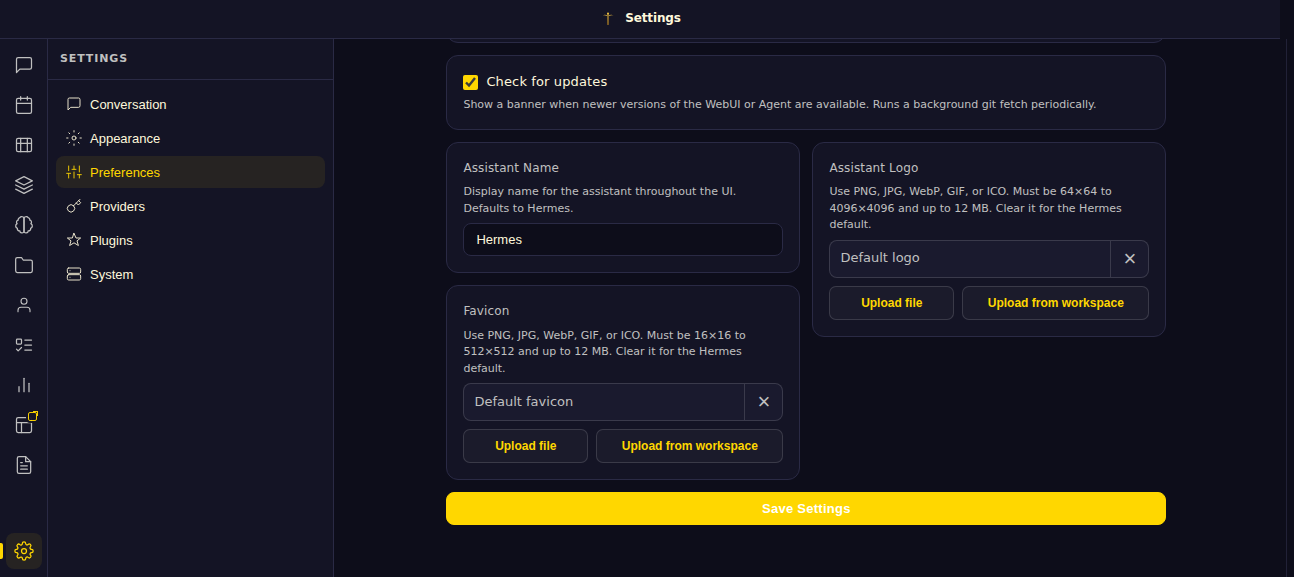
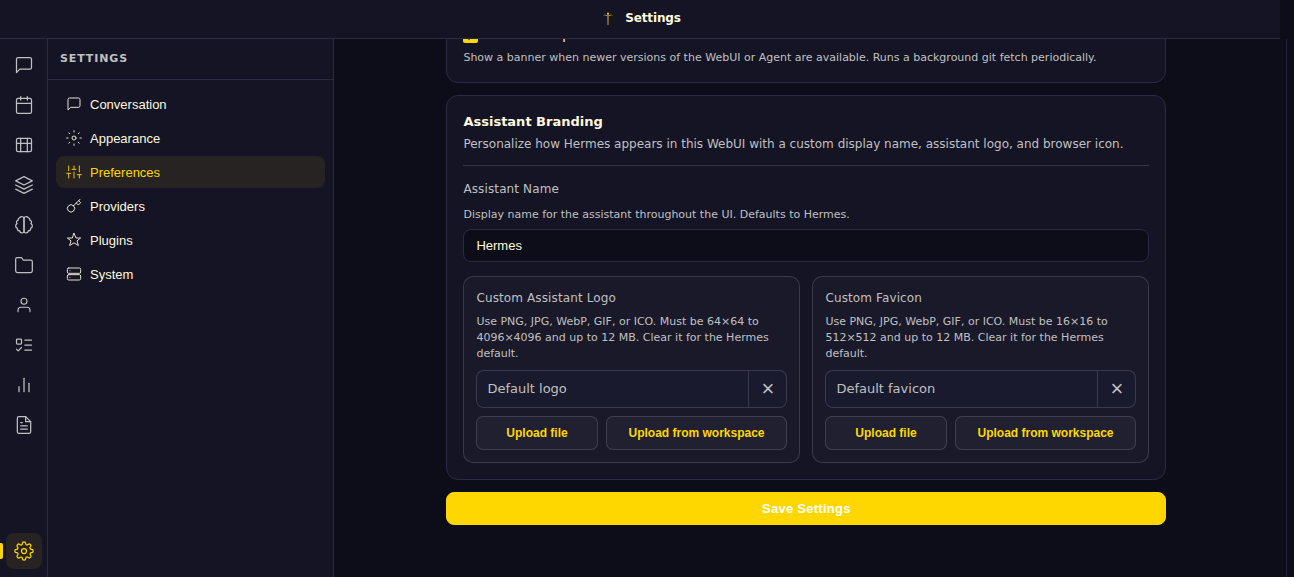
fix: polish branding controls card

diff --git a/static/index.html b/static/index.html
@@ -1053,37 +1053,47 @@
               <div style="font-size:11px;color:var(--muted);margin-top:4px" data-i18n="settings_desc_check_updates">Show a banner when newer versions of the WebUI or Agent are available. Runs a background git fetch periodically.</div>
             </div>
             <div class="settings-branding-grid">
-              <div class="settings-field">
-                <label for="settingsBotName" data-i18n="settings_label_bot_name">Assistant Name</label>
-                <div style="font-size:11px;color:var(--muted);margin-bottom:6px" data-i18n="settings_desc_bot_name">Display name for the assistant throughout the UI. Defaults to Hermes.</div>
-                <input type="text" id="settingsBotName" placeholder="Hermes" maxlength="64" style="width:100%;padding:8px;background:var(--code-bg);color:var(--text);border:1px solid var(--border2);border-radius:6px;font-size:13px">
-              </div>
-              <div class="settings-field">
-                <label for="settingsBotLogoUpload" data-i18n="settings_label_bot_logo">Assistant Logo</label>
-                <div style="font-size:11px;color:var(--muted);margin-bottom:6px" data-i18n="settings_desc_bot_logo">Use PNG, JPG, WebP, GIF, or ICO. Must be 64×64 to 4096×4096 and up to 12 MB. Clear it for the Hermes default.</div>
-                <input type="hidden" id="settingsBotLogo">
-                <input type="file" id="settingsBotLogoFile" accept="image/png,image/jpeg,image/webp,image/gif,image/x-icon,image/vnd.microsoft.icon,.ico" hidden>
-                <div class="brand-file-control" data-branding-kind="logo">
-                  <span class="brand-file-name" id="settingsBotLogoFileName" data-i18n="settings_branding_no_file">No file selected</span>
-                  <button type="button" class="brand-file-clear" id="settingsBotLogoClear" aria-label="Clear assistant logo" title="Clear assistant logo">×</button>
+              <div class="settings-field settings-branding-card">
+                <div class="settings-branding-card-head">
+                  <div>
+                    <label>Assistant Branding</label>
+                    <div>Personalize how Hermes appears in this WebUI with a custom display name, assistant logo, and browser icon.</div>
+                  </div>
                 </div>
-                <div class="brand-file-actions">
-                  <button type="button" class="brand-file-action" id="settingsBotLogoUpload" data-i18n="settings_branding_upload">Upload file</button>
-                  <button type="button" class="brand-file-action" id="settingsBotLogoWorkspace" data-i18n="settings_branding_workspace">Upload from workspace</button>
-                </div>
-              </div>
-              <div class="settings-field">
-                <label for="settingsBotFaviconUpload" data-i18n="settings_label_bot_favicon">Favicon</label>
-                <div style="font-size:11px;color:var(--muted);margin-bottom:6px" data-i18n="settings_desc_bot_favicon">Use PNG, JPG, WebP, GIF, or ICO. Must be 16×16 to 512×512 and up to 12 MB. Clear it for the Hermes default.</div>
-                <input type="hidden" id="settingsBotFavicon">
-                <input type="file" id="settingsBotFaviconFile" accept="image/png,image/jpeg,image/webp,image/gif,image/x-icon,image/vnd.microsoft.icon,.ico" hidden>
-                <div class="brand-file-control" data-branding-kind="favicon">
-                  <span class="brand-file-name" id="settingsBotFaviconFileName" data-i18n="settings_branding_no_file">No file selected</span>
-                  <button type="button" class="brand-file-clear" id="settingsBotFaviconClear" aria-label="Clear favicon" title="Clear favicon">×</button>
-                </div>
-                <div class="brand-file-actions">
-                  <button type="button" class="brand-file-action" id="settingsBotFaviconUpload" data-i18n="settings_branding_upload">Upload file</button>
-                  <button type="button" class="brand-file-action" id="settingsBotFaviconWorkspace" data-i18n="settings_branding_workspace">Upload from workspace</button>
+                <div class="settings-branding-card-grid">
+                  <div class="settings-branding-name-slot">
+                    <label for="settingsBotName" data-i18n="settings_label_bot_name">Assistant Name</label>
+                    <div style="font-size:11px;color:var(--muted);margin-bottom:6px" data-i18n="settings_desc_bot_name">Display name for the assistant throughout the UI. Defaults to Hermes.</div>
+                    <input type="text" id="settingsBotName" placeholder="Hermes" maxlength="64" style="width:100%;padding:8px;background:var(--code-bg);color:var(--text);border:1px solid var(--border2);border-radius:6px;font-size:13px">
+                  </div>
+                  <div class="settings-branding-asset-slot settings-branding-logo-slot">
+                    <label for="settingsBotLogoUpload" data-i18n="settings_label_bot_logo">Custom Assistant Logo</label>
+                    <div class="settings-branding-asset-desc" data-i18n="settings_desc_bot_logo">Use PNG, JPG, WebP, GIF, or ICO. Must be 64×64 to 4096×4096 and up to 12 MB. Clear it for the Hermes default.</div>
+                    <input type="hidden" id="settingsBotLogo">
+                    <input type="file" id="settingsBotLogoFile" accept="image/png,image/jpeg,image/webp,image/gif,image/x-icon,image/vnd.microsoft.icon,.ico" hidden>
+                    <div class="brand-file-control" data-branding-kind="logo">
+                      <span class="brand-file-name" id="settingsBotLogoFileName" data-i18n="settings_branding_no_file">No file selected</span>
+                      <button type="button" class="brand-file-clear" id="settingsBotLogoClear" aria-label="Clear assistant logo" title="Clear assistant logo">×</button>
+                    </div>
+                    <div class="brand-file-actions">
+                      <button type="button" class="brand-file-action" id="settingsBotLogoUpload" data-i18n="settings_branding_upload">Upload file</button>
+                      <button type="button" class="brand-file-action" id="settingsBotLogoWorkspace" data-i18n="settings_branding_workspace">Upload from workspace</button>
+                    </div>
+                  </div>
+                  <div class="settings-branding-asset-slot settings-branding-favicon-slot">
+                    <label for="settingsBotFaviconUpload" data-i18n="settings_label_bot_favicon">Custom Favicon</label>
+                    <div class="settings-branding-asset-desc" data-i18n="settings_desc_bot_favicon">Use PNG, JPG, WebP, GIF, or ICO. Must be 16×16 to 512×512 and up to 12 MB. Clear it for the Hermes default.</div>
+                    <input type="hidden" id="settingsBotFavicon">
+                    <input type="file" id="settingsBotFaviconFile" accept="image/png,image/jpeg,image/webp,image/gif,image/x-icon,image/vnd.microsoft.icon,.ico" hidden>
+                    <div class="brand-file-control" data-branding-kind="favicon">
+                      <span class="brand-file-name" id="settingsBotFaviconFileName" data-i18n="settings_branding_no_file">No file selected</span>
+                      <button type="button" class="brand-file-clear" id="settingsBotFaviconClear" aria-label="Clear favicon" title="Clear favicon">×</button>
+                    </div>
+                    <div class="brand-file-actions">
+                      <button type="button" class="brand-file-action" id="settingsBotFaviconUpload" data-i18n="settings_branding_upload">Upload file</button>
+                      <button type="button" class="brand-file-action" id="settingsBotFaviconWorkspace" data-i18n="settings_branding_workspace">Upload from workspace</button>
+                    </div>
+                  </div>
                 </div>
               </div>
             </div>

diff --git a/static/i18n.js b/static/i18n.js
@@ -514,8 +514,8 @@ const LOCALES = {
     settings_label_sync_insights: 'Sync to insights',
     settings_label_check_updates: 'Check for updates',
     settings_label_bot_name: 'Assistant Name',
-    settings_label_bot_logo: 'Assistant Logo',
-    settings_label_bot_favicon: 'Favicon',
+    settings_label_bot_logo: 'Custom Assistant Logo',
+    settings_label_bot_favicon: 'Custom Favicon',
     settings_bot_logo_clear: 'Clear logo',
     settings_branding_upload: 'Upload file',
     settings_branding_workspace: 'Upload from workspace',
@@ -1648,8 +1648,8 @@ const LOCALES = {
     settings_label_sync_insights: 'Sincronizza con insights',
     settings_label_check_updates: 'Verifica aggiornamenti',
     settings_label_bot_name: 'Nome Assistente',
-    settings_label_bot_logo: 'Assistant Logo',
-    settings_label_bot_favicon: 'Favicon',
+    settings_label_bot_logo: 'Custom Assistant Logo',
+    settings_label_bot_favicon: 'Custom Favicon',
     settings_bot_logo_clear: 'Clear logo',
     settings_branding_upload: 'Upload file',
     settings_branding_workspace: 'Upload from workspace',
@@ -2774,8 +2774,8 @@ const LOCALES = {
     settings_label_sync_insights: 'インサイトに同期',
     settings_label_check_updates: 'アップデートを確認',
     settings_label_bot_name: 'アシスタント名',
-    settings_label_bot_logo: 'Assistant Logo',
-    settings_label_bot_favicon: 'Favicon',
+    settings_label_bot_logo: 'Custom Assistant Logo',
+    settings_label_bot_favicon: 'Custom Favicon',
     settings_bot_logo_clear: 'Clear logo',
     settings_branding_upload: 'Upload file',
     settings_branding_workspace: 'Upload from workspace',
@@ -3725,8 +3725,8 @@ const LOCALES = {
     settings_label_sync_insights: 'Синхронизировать с Insights',
     settings_label_check_updates: 'Проверять обновления',
     settings_label_bot_name: 'Имя помощника',
-    settings_label_bot_logo: 'Assistant Logo',
-    settings_label_bot_favicon: 'Favicon',
+    settings_label_bot_logo: 'Custom Assistant Logo',
+    settings_label_bot_favicon: 'Custom Favicon',
     settings_bot_logo_clear: 'Clear logo',
     settings_branding_upload: 'Upload file',
     settings_branding_workspace: 'Upload from workspace',
@@ -4780,8 +4780,8 @@ const LOCALES = {
     settings_label_sync_insights: 'Sincronizar con insights',
     settings_label_check_updates: 'Buscar actualizaciones',
     settings_label_bot_name: 'Nombre del asistente',
-    settings_label_bot_logo: 'Assistant Logo',
-    settings_label_bot_favicon: 'Favicon',
+    settings_label_bot_logo: 'Custom Assistant Logo',
+    settings_label_bot_favicon: 'Custom Favicon',
     settings_bot_logo_clear: 'Clear logo',
     settings_branding_upload: 'Upload file',
     settings_branding_workspace: 'Upload from workspace',
@@ -5828,8 +5828,8 @@ const LOCALES = {
     settings_label_sync_insights: 'Mit Insights synchronisieren',
     settings_label_check_updates: 'Nach Updates suchen',
     settings_label_bot_name: 'Assistenten-Name',
-    settings_label_bot_logo: 'Assistant Logo',
-    settings_label_bot_favicon: 'Favicon',
+    settings_label_bot_logo: 'Custom Assistant Logo',
+    settings_label_bot_favicon: 'Custom Favicon',
     settings_bot_logo_clear: 'Clear logo',
     settings_branding_upload: 'Upload file',
     settings_branding_workspace: 'Upload from workspace',
@@ -6917,8 +6917,8 @@ const LOCALES = {
     settings_label_sync_insights: '同步到 insights',
     settings_label_check_updates: '检查更新',
     settings_label_bot_name: '助手名称',
-    settings_label_bot_logo: 'Assistant Logo',
-    settings_label_bot_favicon: 'Favicon',
+    settings_label_bot_logo: 'Custom Assistant Logo',
+    settings_label_bot_favicon: 'Custom Favicon',
     settings_bot_logo_clear: 'Clear logo',
     settings_branding_upload: 'Upload file',
     settings_branding_workspace: 'Upload from workspace',
@@ -7991,8 +7991,8 @@ const LOCALES = {
     settings_label_sync_insights: '\u540c\u6b65\u5230 insights',
     settings_label_check_updates: '\u6aa2\u67e5\u66f4\u65b0',
     settings_label_bot_name: '\u52a9\u624b\u540d\u7a31',
-    settings_label_bot_logo: 'Assistant Logo',
-    settings_label_bot_favicon: 'Favicon',
+    settings_label_bot_logo: 'Custom Assistant Logo',
+    settings_label_bot_favicon: 'Custom Favicon',
     settings_bot_logo_clear: 'Clear logo',
     settings_branding_upload: 'Upload file',
     settings_branding_workspace: 'Upload from workspace',
@@ -9216,8 +9216,8 @@ const LOCALES = {
     settings_label_sync_insights: 'Sincronizar para insights',
     settings_label_check_updates: 'Verificar atualizações',
     settings_label_bot_name: 'Nome do Assistente',
-    settings_label_bot_logo: 'Assistant Logo',
-    settings_label_bot_favicon: 'Favicon',
+    settings_label_bot_logo: 'Custom Assistant Logo',
+    settings_label_bot_favicon: 'Custom Favicon',
     settings_bot_logo_clear: 'Clear logo',
     settings_branding_upload: 'Upload file',
     settings_branding_workspace: 'Upload from workspace',
@@ -10246,8 +10246,8 @@ const LOCALES = {
     settings_label_sync_insights: 'Insights에 동기화',
     settings_label_check_updates: '업데이트 확인',
     settings_label_bot_name: 'Assistant 이름',
-    settings_label_bot_logo: 'Assistant Logo',
-    settings_label_bot_favicon: 'Favicon',
+    settings_label_bot_logo: 'Custom Assistant Logo',
+    settings_label_bot_favicon: 'Custom Favicon',
     settings_bot_logo_clear: 'Clear logo',
     settings_branding_upload: 'Upload file',
     settings_branding_workspace: 'Upload from workspace',
@@ -11292,8 +11292,8 @@ const LOCALES = {
     settings_label_sync_insights: 'Synchroniser avec les insights',
     settings_label_check_updates: 'Vérifier les mises à jour',
     settings_label_bot_name: 'Nom de l\'assistant',
-    settings_label_bot_logo: 'Assistant Logo',
-    settings_label_bot_favicon: 'Favicon',
+    settings_label_bot_logo: 'Custom Assistant Logo',
+    settings_label_bot_favicon: 'Custom Favicon',
     settings_bot_logo_clear: 'Clear logo',
     settings_branding_upload: 'Upload file',
     settings_branding_workspace: 'Upload from workspace',

diff --git a/static/style.css b/static/style.css
@@ -3775,12 +3775,20 @@ main.main.showing-logs > #mainLogs{display:flex;}
 .logs-empty,.logs-hint{margin:8px 14px;padding:12px;border:1px solid var(--border);border-radius:8px;color:var(--muted);background:var(--surface);white-space:normal;font-family:var(--font-ui,system-ui,sans-serif);font-size:12px;}
 .logs-hint.warn{color:#f59e0b;border-color:rgba(245,158,11,.35);background:rgba(245,158,11,.08);}
 
-  .settings-branding-grid{display:grid;grid-template-columns:repeat(2,minmax(0,1fr));grid-template-areas:"name logo" "favicon logo";gap:12px;align-items:start;}
+  .settings-branding-grid{display:block;}
   #mainSettings .settings-branding-grid > .settings-field{margin-bottom:0;}
-  .settings-branding-grid > .settings-field:nth-child(1){grid-area:name;}
-  .settings-branding-grid > .settings-field:nth-child(2){grid-area:logo;}
-  .settings-branding-grid > .settings-field:nth-child(3){grid-area:favicon;}
-  @media (max-width:680px){.settings-branding-grid{grid-template-columns:1fr;grid-template-areas:"name" "logo" "favicon";}}
+  .settings-branding-card-head{display:flex;align-items:flex-start;justify-content:space-between;gap:12px;margin-bottom:14px;padding-bottom:12px;border-bottom:1px solid var(--border2);}
+  .settings-branding-card-head label{display:block;font-size:13px;font-weight:650;color:var(--text);margin:0 0 3px;}
+  .settings-branding-card-head div div{font-size:12px;color:var(--muted);line-height:1.45;}
+  .settings-branding-card-grid{display:grid;grid-template-columns:repeat(2,minmax(0,1fr));grid-template-areas:"name name" "logo favicon";gap:14px 12px;align-items:stretch;}
+  .settings-branding-name-slot{grid-area:name;}
+  .settings-branding-logo-slot{grid-area:logo;}
+  .settings-branding-favicon-slot{grid-area:favicon;}
+  .settings-branding-name-slot label,.settings-branding-asset-slot label{display:block;font-size:12px;font-weight:500;letter-spacing:.01em;color:var(--muted);margin-bottom:6px;}
+  .settings-branding-asset-slot{min-width:0;display:flex;flex-direction:column;padding:12px;border:1px solid var(--border2);border-radius:10px;background:rgba(255,255,255,.025);}
+  .settings-branding-asset-desc{font-size:11px;color:var(--muted);line-height:1.45;margin-bottom:8px;min-height:48px;}
+  .settings-branding-asset-slot .brand-file-control{margin-top:auto;}
+  @media (max-width:760px){.settings-branding-card-grid{grid-template-columns:1fr;grid-template-areas:"name" "logo" "favicon";}.settings-branding-asset-desc{min-height:0;}}
   .brand-file-control{display:flex;align-items:center;min-width:0;width:100%;height:38px;background:var(--code-bg);color:var(--text);border:1px solid var(--border2);border-radius:8px;overflow:hidden;}
   .brand-file-actions{display:grid;grid-template-columns:minmax(92px,.8fr) minmax(160px,1.2fr);gap:8px;margin-top:8px;}
   .brand-file-action{min-height:34px;padding:0 10px;border:1px solid var(--border2);border-radius:7px;background:rgba(255,255,255,.03);color:var(--accent);font-size:12px;font-weight:650;cursor:pointer;white-space:nowrap;}

diff --git a/tests/test_custom_logo_settings.py b/tests/test_custom_logo_settings.py
@@ -237,14 +237,31 @@ def test_custom_logo_retains_skin_accent_glow():
     assert ".brand-logo.is-custom{background:transparent;border-color:var(--border2);box-shadow:none" not in style
 
 
-def test_branding_settings_grid_keeps_favicon_tucked_under_name():
+def test_branding_settings_grid_groups_assistant_branding_controls():
+    html = (ROOT / "static" / "index.html").read_text(encoding="utf-8")
     style = (ROOT / "static" / "style.css").read_text(encoding="utf-8")
-    assert 'grid-template-areas:"name logo" "favicon logo"' in style
+    i18n = (ROOT / "static" / "i18n.js").read_text(encoding="utf-8")
+
+    assert 'class="settings-field settings-branding-card"' in html
+    assert "Assistant Branding" in html
+    assert "Personalize how Hermes appears in this WebUI" in html
+    assert "Custom Assistant Logo" in html
+    assert "Custom Favicon" in html
+    assert "settings_label_bot_logo: 'Custom Assistant Logo'" in i18n
+    assert "settings_label_bot_favicon: 'Custom Favicon'" in i18n
+    assert "Make it yours" not in html
+    assert "Set the assistant name, logo, and favicon in one place" not in html
+    assert "Logo and favicon stay independent" not in html
+    assert 'grid-template-areas:"name name" "logo favicon"' in style
+    assert "align-items:stretch" in style
+    assert ".settings-branding-asset-slot{min-width:0;display:flex;flex-direction:column;" in style
+    assert ".settings-branding-asset-desc{font-size:11px;color:var(--muted);line-height:1.45;margin-bottom:8px;min-height:48px;}" in style
+    assert ".settings-branding-asset-slot .brand-file-control{margin-top:auto;}" in style
     assert "#mainSettings .settings-branding-grid > .settings-field{margin-bottom:0;}" in style
-    assert ".settings-branding-grid > .settings-field:nth-child(1){grid-area:name;}" in style
-    assert ".settings-branding-grid > .settings-field:nth-child(2){grid-area:logo;}" in style
-    assert ".settings-branding-grid > .settings-field:nth-child(3){grid-area:favicon;}" in style
-    assert '@media (max-width:680px){.settings-branding-grid{grid-template-columns:1fr;grid-template-areas:"name" "logo" "favicon";}}' in style
+    assert ".settings-branding-name-slot{grid-area:name;}" in style
+    assert ".settings-branding-logo-slot{grid-area:logo;}" in style
+    assert ".settings-branding-favicon-slot{grid-area:favicon;}" in style
+    assert '@media (max-width:760px){.settings-branding-card-grid{grid-template-columns:1fr;grid-template-areas:"name" "logo" "favicon";}.settings-branding-asset-desc{min-height:0;}}' in style
 
 
 def test_cached_custom_logo_hides_default_logo_before_boot_reconciliation():
